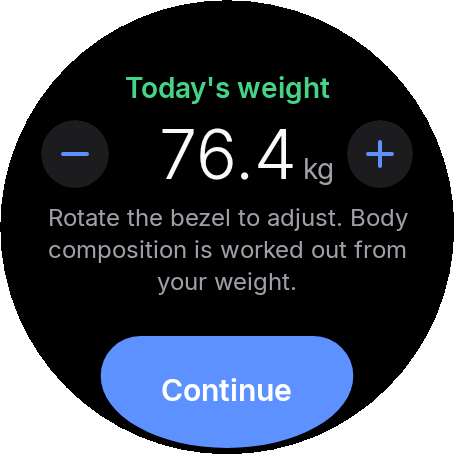
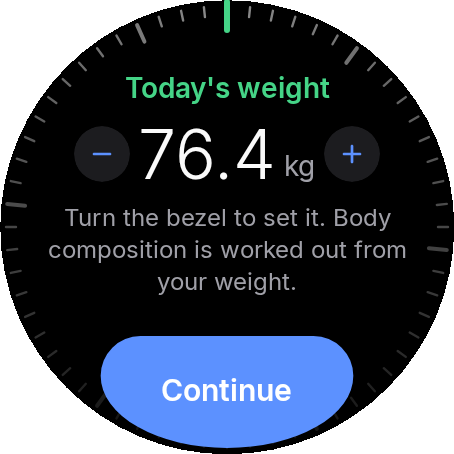
Watch: set today's weight with the rotating bezel
RotaryNumberInput/RotaryStepper: one bezel click is exactly one step
(0.1 kg) with a haptic tick, a fast burst in one direction moves 0.5 kg,
a smooth crown's small events add up; the digits roll in the direction
of the change and a ring of ticks along the edge turns with the value
under a fixed marker, like the bezel. The − / + buttons are smaller, a
fallback only. Before, a fixed 24 px threshold could count one bezel
click as several steps.

diff --git a/wear/src/main/kotlin/com/heartline/wear/ui/components/RotaryNumber.kt b/wear/src/main/kotlin/com/heartline/wear/ui/components/RotaryNumber.kt
@@ -1,0 +1,156 @@
+package com.heartline.wear.ui.components
+
+import androidx.compose.animation.AnimatedContent
+import androidx.compose.animation.core.tween
+import androidx.compose.animation.fadeIn
+import androidx.compose.animation.fadeOut
+import androidx.compose.animation.slideInVertically
+import androidx.compose.animation.slideOutVertically
+import androidx.compose.animation.togetherWith
+import androidx.compose.foundation.Canvas
+import androidx.compose.foundation.focusable
+import androidx.compose.foundation.layout.Box
+import androidx.compose.foundation.layout.fillMaxSize
+import androidx.compose.runtime.Composable
+import androidx.compose.runtime.LaunchedEffect
+import androidx.compose.runtime.remember
+import androidx.compose.ui.Alignment
+import androidx.compose.ui.Modifier
+import androidx.compose.ui.focus.FocusRequester
+import androidx.compose.ui.focus.focusRequester
+import androidx.compose.ui.geometry.Offset
+import androidx.compose.ui.graphics.Color
+import androidx.compose.ui.graphics.StrokeCap
+import androidx.compose.ui.hapticfeedback.HapticFeedbackType
+import androidx.compose.ui.input.rotary.onRotaryScrollEvent
+import androidx.compose.ui.platform.LocalHapticFeedback
+import androidx.compose.ui.text.TextStyle
+import androidx.compose.ui.unit.dp
+import kotlin.math.PI
+import kotlin.math.abs
+import kotlin.math.cos
+import kotlin.math.sin
+import kotlin.math.withSign
+
+/**
+ * Turns rotary input into whole steps. A Galaxy rotating bezel sends one large event per click:
+ * that is exactly one step (a burst of fast clicks moves [fastSteps] at a time). A smooth crown
+ * sends many small events: they add up, one step per [smoothPx].
+ */
+class RotaryStepper(
+    private val detentPx: Float = 20f,
+    private val smoothPx: Float = 36f,
+    private val fastMs: Long = 90,
+    private val fastSteps: Int = 5,
+) {
+    private var pending = 0f
+    private var lastAt = Long.MIN_VALUE / 2
+    private var lastSign = 0f
+
+    /** @return signed number of steps for an event of [px] at [atMs] (positive = clockwise = up). */
+    fun onEvent(px: Float, atMs: Long): Int {
+        if (px == 0f) return 0
+        val sign = 1f.withSign(px)
+        val fast = atMs - lastAt < fastMs && sign == lastSign
+        lastAt = atMs
+        lastSign = sign
+        if (abs(px) >= detentPx) {
+            pending = 0f
+            return (if (fast) fastSteps else 1) * sign.toInt()
+        }
+        if (pending != 0f && 1f.withSign(pending) != sign) pending = 0f
+        pending += px
+        val steps = (pending / smoothPx).toInt()
+        pending -= steps * smoothPx
+        return steps
+    }
+}
+
+/**
+ * A number set with the bezel (or crown): each click moves one [step] with a haptic tick, the
+ * digits roll in the direction of the change, and a ring of ticks along the screen edge turns
+ * with the value like the bezel itself. [content] is laid over it (title, value, buttons).
+ */
+@Composable
+fun RotaryNumberInput(
+    value: Float,
+    onValueChange: (Float) -> Unit,
+    step: Float,
+    range: ClosedFloatingPointRange<Float>,
+    accent: Color,
+    modifier: Modifier = Modifier,
+    content: @Composable () -> Unit,
+) {
+    val focus = remember { FocusRequester() }
+    val stepper = remember { RotaryStepper() }
+    val haptics = LocalHapticFeedback.current
+    LaunchedEffect(Unit) { runCatching { focus.requestFocus() } }
+    Box(
+        modifier
+            .fillMaxSize()
+            .onRotaryScrollEvent { e ->
+                val steps = stepper.onEvent(e.verticalScrollPixels, e.uptimeMillis)
+                if (steps != 0) {
+                    val next = snap(value + steps * step, step).coerceIn(range.start, range.endInclusive)
+                    if (next != value) {
+                        onValueChange(next)
+                        haptics.performHapticFeedback(HapticFeedbackType.SegmentFrequentTick)
+                    }
+                }
+                true
+            }
+            .focusRequester(focus)
+            .focusable(),
+        contentAlignment = Alignment.Center,
+    ) {
+        // Bezel ring: ticks every 0.1 of a unit's worth of steps, turning with the value.
+        Canvas(Modifier.fillMaxSize()) {
+            val r = size.minDimension / 2
+            val c = Offset(size.width / 2, size.height / 2)
+            val stepsPerTurn = 60
+            val turn = (value / step) % stepsPerTurn
+            for (i in 0 until stepsPerTurn) {
+                val a = (2 * PI * (i - turn) / stepsPerTurn - PI / 2).toFloat()
+                val major = i % 10 == 0
+                val len = (if (major) 9 else 5).dp.toPx()
+                val outer = r - 3.dp.toPx()
+                // Ticks fade away from the top, where the marker is.
+                val dist = abs(((i - turn + stepsPerTurn / 2) % stepsPerTurn + stepsPerTurn) % stepsPerTurn - stepsPerTurn / 2) / (stepsPerTurn / 2f)
+                drawLine(
+                    Color.White.copy(alpha = (0.55f * (1 - dist)).coerceAtLeast(0.08f)),
+                    Offset(c.x + outer * cos(a), c.y + outer * sin(a)),
+                    Offset(c.x + (outer - len) * cos(a), c.y + (outer - len) * sin(a)),
+                    strokeWidth = (if (major) 2f else 1.2f).dp.toPx(),
+                    cap = StrokeCap.Round,
+                )
+            }
+            // Fixed marker at the top.
+            val top = -PI.toFloat() / 2
+            drawLine(
+                accent,
+                Offset(c.x + (r - 1.dp.toPx()) * cos(top), c.y + (r - 1.dp.toPx()) * sin(top)),
+                Offset(c.x + (r - 15.dp.toPx()) * cos(top), c.y + (r - 15.dp.toPx()) * sin(top)),
+                strokeWidth = 3.dp.toPx(),
+                cap = StrokeCap.Round,
+            )
+        }
+        content()
+    }
+}
+
+/** The value text, rolling up or down when it changes. */
+@Composable
+fun RollingNumber(value: Float, format: (Float) -> String, style: TextStyle, modifier: Modifier = Modifier) {
+    AnimatedContent(
+        targetState = value,
+        transitionSpec = {
+            val up = targetState > initialState
+            (slideInVertically(tween(160)) { h -> if (up) h / 2 else -h / 2 } + fadeIn(tween(160))) togetherWith
+                (slideOutVertically(tween(160)) { h -> if (up) -h / 2 else h / 2 } + fadeOut(tween(120)))
+        },
+        modifier = modifier,
+        label = "rolling",
+    ) { v -> androidx.wear.compose.material3.Text(format(v), style = style) }
+}
+
+private fun snap(v: Float, step: Float): Float = (Math.round(v / step) * step).let { (it * 1000).toInt() / 1000f }

diff --git a/wear/src/main/kotlin/com/heartline/wear/ui/screens/BodyScreens.kt b/wear/src/main/kotlin/com/heartline/wear/ui/screens/BodyScreens.kt
@@ -5,7 +5,6 @@ import androidx.compose.animation.core.FastOutSlowInEasing
 import androidx.compose.animation.core.tween
 import androidx.compose.foundation.Canvas
 import androidx.compose.foundation.background
-import androidx.compose.foundation.focusable
 import androidx.compose.foundation.layout.Arrangement
 import androidx.compose.foundation.layout.Box
 import androidx.compose.foundation.layout.Column
@@ -28,8 +27,6 @@ import androidx.compose.runtime.setValue
 import androidx.compose.ui.Alignment
 import androidx.compose.ui.Modifier
 import androidx.compose.ui.draw.clip
-import androidx.compose.ui.focus.FocusRequester
-import androidx.compose.ui.focus.focusRequester
 import androidx.compose.ui.geometry.Offset
 import androidx.compose.ui.geometry.Size
 import androidx.compose.ui.graphics.Brush
@@ -37,7 +34,6 @@ import androidx.compose.ui.graphics.Color
 import androidx.compose.ui.graphics.StrokeCap
 import androidx.compose.ui.graphics.drawscope.Stroke
 import androidx.compose.ui.graphics.graphicsLayer
-import androidx.compose.ui.input.rotary.onRotaryScrollEvent
 import androidx.compose.ui.platform.LocalConfiguration
 import androidx.compose.ui.res.stringResource
 import androidx.compose.ui.text.style.TextAlign
@@ -60,53 +56,42 @@ import com.heartline.shared.model.Severity
 import com.heartline.wear.R
 import com.heartline.wear.ui.components.ActionScreen
 import com.heartline.wear.ui.components.CenteredValue
+import com.heartline.wear.ui.components.RollingNumber
+import com.heartline.wear.ui.components.RotaryNumberInput
 import com.heartline.wear.ui.components.isSmallRound
 import com.heartline.wear.ui.theme.WearColors
 import kotlin.math.roundToInt
 
 /**
- * Today's weight before body composition (asked when the last one is over a month old): a big
- * value adjusted by the bezel (0.1 kg a step) or the − / + buttons.
+ * Today's weight before body composition (asked when the last one is over a month old). Set with
+ * the rotating bezel: one click = 0.1 kg with a haptic tick, fast turning 0.5 kg; the tick ring
+ * along the edge turns with it. The small − / + buttons are a fallback.
  */
 @Composable
 fun WeightConfirmScreen(initialKg: Float, onConfirm: (Float) -> Unit) {
     var kg by remember { mutableFloatStateOf(if (initialKg > 0) initialKg else 70f) }
-    var rotary by remember { mutableFloatStateOf(0f) }
-    val focus = remember { FocusRequester() }
-    LaunchedEffect(Unit) { runCatching { focus.requestFocus() } }
+    val color = WearColors.metric(Metric.BODY_COMPOSITION)
     fun step(d: Float) {
-        kg = ((kg + d) * 10).roundToInt() / 10f
-        kg = kg.coerceIn(25f, 300f)
+        kg = (((kg + d) * 10).roundToInt() / 10f).coerceIn(25f, 300f)
     }
-    ActionScreen(stringResource(R.string.action_continue), onAction = { onConfirm(kg) }) {
-        Column(
-            Modifier
-                .onRotaryScrollEvent {
-                    rotary += it.verticalScrollPixels
-                    while (rotary > ROTARY_STEP_PX) {
-                        step(0.1f)
-                        rotary -= ROTARY_STEP_PX
-                    }
-                    while (rotary < -ROTARY_STEP_PX) {
-                        step(-0.1f)
-                        rotary += ROTARY_STEP_PX
-                    }
-                    true
+    RotaryNumberInput(kg, { kg = it }, step = 0.1f, range = 25f..300f, accent = color) {
+        ActionScreen(stringResource(R.string.action_continue), onAction = { onConfirm(kg) }) {
+            Text(stringResource(R.string.body_weight_title), style = MaterialTheme.typography.titleSmall, color = color)
+            Row(verticalAlignment = Alignment.CenterVertically, horizontalArrangement = Arrangement.spacedBy(4.dp), modifier = Modifier.padding(vertical = 2.dp)) {
+                FilledTonalIconButton(onClick = { step(-0.1f) }, modifier = Modifier.size(28.dp)) {
+                    Icon(Icons.Rounded.Remove, contentDescription = "−0.1", modifier = Modifier.size(16.dp))
                 }
-                .focusRequester(focus)
-                .focusable(),
-            horizontalAlignment = Alignment.CenterHorizontally,
-        ) {
-            Text(stringResource(R.string.body_weight_title), style = MaterialTheme.typography.titleSmall, color = WearColors.metric(Metric.BODY_COMPOSITION))
-            Row(verticalAlignment = Alignment.CenterVertically, horizontalArrangement = Arrangement.spacedBy(6.dp), modifier = Modifier.padding(vertical = 4.dp)) {
-                FilledTonalIconButton(onClick = { step(-0.1f) }, modifier = Modifier.size(34.dp)) { Icon(Icons.Rounded.Remove, contentDescription = "−0.1") }
-                CenteredValue(
-                    "%.1f".format(kg),
-                    "kg",
-                    if (isSmallRound()) MaterialTheme.typography.displaySmall else MaterialTheme.typography.displayMedium,
-                    MaterialTheme.typography.bodyMedium,
-                )
-                FilledTonalIconButton(onClick = { step(0.1f) }, modifier = Modifier.size(34.dp)) { Icon(Icons.Rounded.Add, contentDescription = "+0.1") }
+                Row(verticalAlignment = Alignment.Bottom) {
+                    RollingNumber(
+                        kg,
+                        { "%.1f".format(it) },
+                        if (isSmallRound()) MaterialTheme.typography.displaySmall else MaterialTheme.typography.displayMedium,
+                    )
+                    Text(" kg", style = MaterialTheme.typography.bodyMedium, color = WearColors.onSurfaceVariant, modifier = Modifier.padding(bottom = 6.dp))
+                }
+                FilledTonalIconButton(onClick = { step(0.1f) }, modifier = Modifier.size(28.dp)) {
+                    Icon(Icons.Rounded.Add, contentDescription = "+0.1", modifier = Modifier.size(16.dp))
+                }
             }
             Text(
                 stringResource(R.string.body_weight_hint),
@@ -117,8 +102,6 @@ fun WeightConfirmScreen(initialKg: Float, onConfirm: (Float) -> Unit) {
         }
     }
 }
-
-private const val ROTARY_STEP_PX = 24f
 
 /**
  * Body composition result as one scrolling page (bezel or swipe): a hero ring with body fat and

diff --git a/wear/src/test/kotlin/com/heartline/wear/RotaryStepperTest.kt b/wear/src/test/kotlin/com/heartline/wear/RotaryStepperTest.kt
@@ -1,0 +1,32 @@
+package com.heartline.wear
+
+import com.heartline.wear.ui.components.RotaryStepper
+import org.junit.Assert.assertEquals
+import org.junit.Test
+
+/** Bezel clicks are one step each (faster turning jumps), crown scrolling adds up. */
+class RotaryStepperTest {
+    @Test
+    fun eachBezelClickIsOneStep() {
+        val s = RotaryStepper()
+        assertEquals(1, s.onEvent(96f, 0))
+        assertEquals(1, s.onEvent(96f, 400))
+        assertEquals(-1, s.onEvent(-96f, 800))
+    }
+
+    @Test
+    fun fastClicksInOneDirectionJump() {
+        val s = RotaryStepper()
+        assertEquals(1, s.onEvent(96f, 0))
+        assertEquals(5, s.onEvent(96f, 50))
+        assertEquals(-1, s.onEvent(-96f, 90)) // a turn back is never a jump
+    }
+
+    @Test
+    fun smoothCrownEventsAddUp() {
+        val s = RotaryStepper()
+        val steps = (0 until 9).sumOf { s.onEvent(8f, it * 200L) }
+        assertEquals(2, steps) // 72 px at 36 px a step
+        assertEquals(0, s.onEvent(-8f, 5_000)) // reversing drops what was pending
+    }
+}
